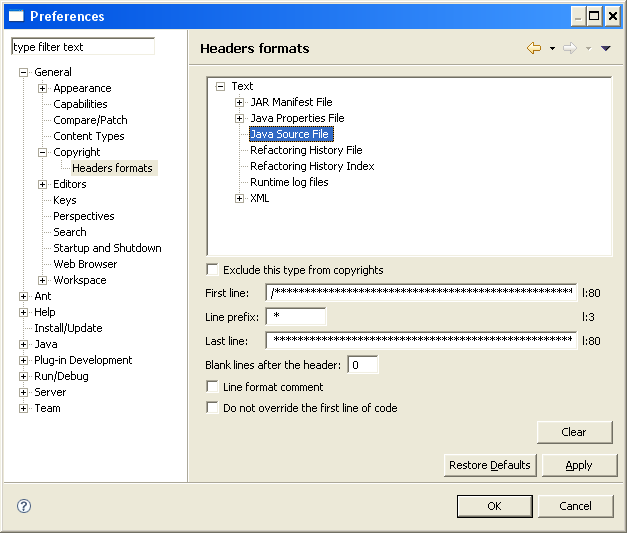
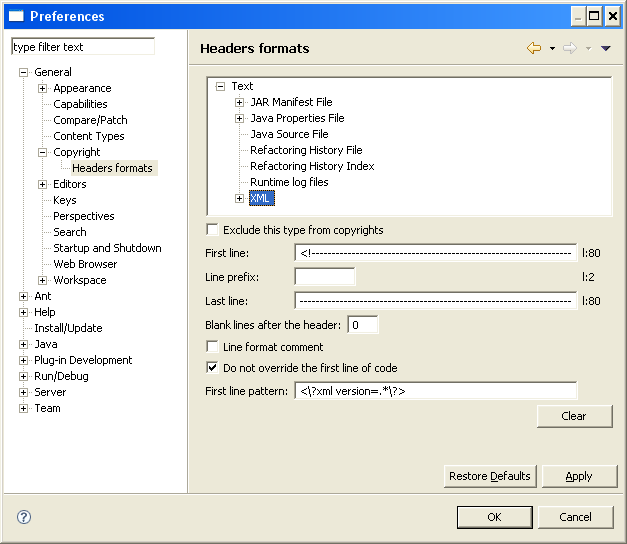
Updated help for conditional exclusion of the first line
git-svn-id: svn://svn.code.sf.net/p/eclipsecopyrigh/code/trunk@34 3b2ae194-4b46-0410-b15f-8b9759acbdba

Changed region(s): [[0.0, 0.0901, 1.0, 0.9906], [0.0, 0.0, 0.2727, 0.7805], [0.9091, 0.0, 1.0, 0.06]]

diff --git a/com.wdev91.eclipse.copyright/help/wizard.html b/com.wdev91.eclipse.copyright/help/wizard.html
@@ -20,7 +20,7 @@ apply the copyright.
 <img class="screenshot" src="images/copywiz/guide02.png" />
 <div id="table1">
   <table cellspacing="0">
-    <tr><th width="80">Parameter</th><th>Description</th></tr>
+    <tr><th width="110">Parameter</th><th>Description</th></tr>
     <tr>
       <td>Projects selection list</td>
       <td>
@@ -78,11 +78,25 @@ preconfigured copyright in the preferences of the wizard.
       </td>
     </tr>
     <tr>
-      <td>File name patterns</td>
+      <td>Include files</td>
       <td>
-      Patterns of filenames on which apply the comment header. This parameter
-      is <b>mandatory</b>. To select all the resources, set it to "*".<br/>
+      Pattern of filenames on which apply the comment header. If leaved empty,
+      it is equivalent to "*" and all resources will be selected.<br/>
+      It is possible to give several patterns, separated by commas. Then all
+      resources corresponding at least to one of the patterns will be
+      selected.<br/>
       <img class="screenshot" src="images/copywiz/guide06.png" /><br/>
+      </td>
+    </tr>
+    <tr>
+      <td>Exclude files</td>
+      <td>
+      Pattern of filenames to exclude from the selection defined by the
+      include pattern. If leaved empty, there is no exclusion.<br/>
+      It is possible to give several patterns, separated by commas. Then all
+      resources corresponding at least to one of the patterns will be
+      excluded.<br/>
+      <img class="screenshot" src="images/copywiz/guide11.png" /><br/>
       </td>
     </tr>
     <tr>
@@ -120,7 +134,7 @@ preconfigured copyright in the preferences of the wizard.
 </div>
 <h2>Third page - Files selection</h2>
 <p>
-The wizard filters with the files pattern the files on which to apply the
+The wizard filters with the files patterns the files on which to apply the
 comment header. If the "Replace existing headers" has been checked, the files
 containing already a comment header are eligible for treatment. Otherwise they
 are also excluded from the pre-selection.

diff --git a/com.wdev91.eclipse.copyright/help/prefs_formats.html b/com.wdev91.eclipse.copyright/help/prefs_formats.html
@@ -70,7 +70,18 @@ ContentType in the tree, and enter the definition of the format:
       on the second line (checked).<br/>
       Some languages require an instruction or a comment of a particular format
       on the first line of a source file. When checked, the content of the first
-	  line will be preserved by the wizard.
+      line will be preserved by the wizard.
+      </td>
+    </tr>
+    <tr>
+      <td>First line pattern</td>
+      <td>
+      Regular expression pattern to apply on the first line. If the line
+      matches, the comment is inserted after the line, else it is inserted
+      before. This pattern is optional. If it is leaved empty, the first line
+      is always skipped before to insert the comment header.<br/>
+      The regular expression must respect the syntax defined by the Pattern
+      java class.
       </td>
     </tr>
   </table>
